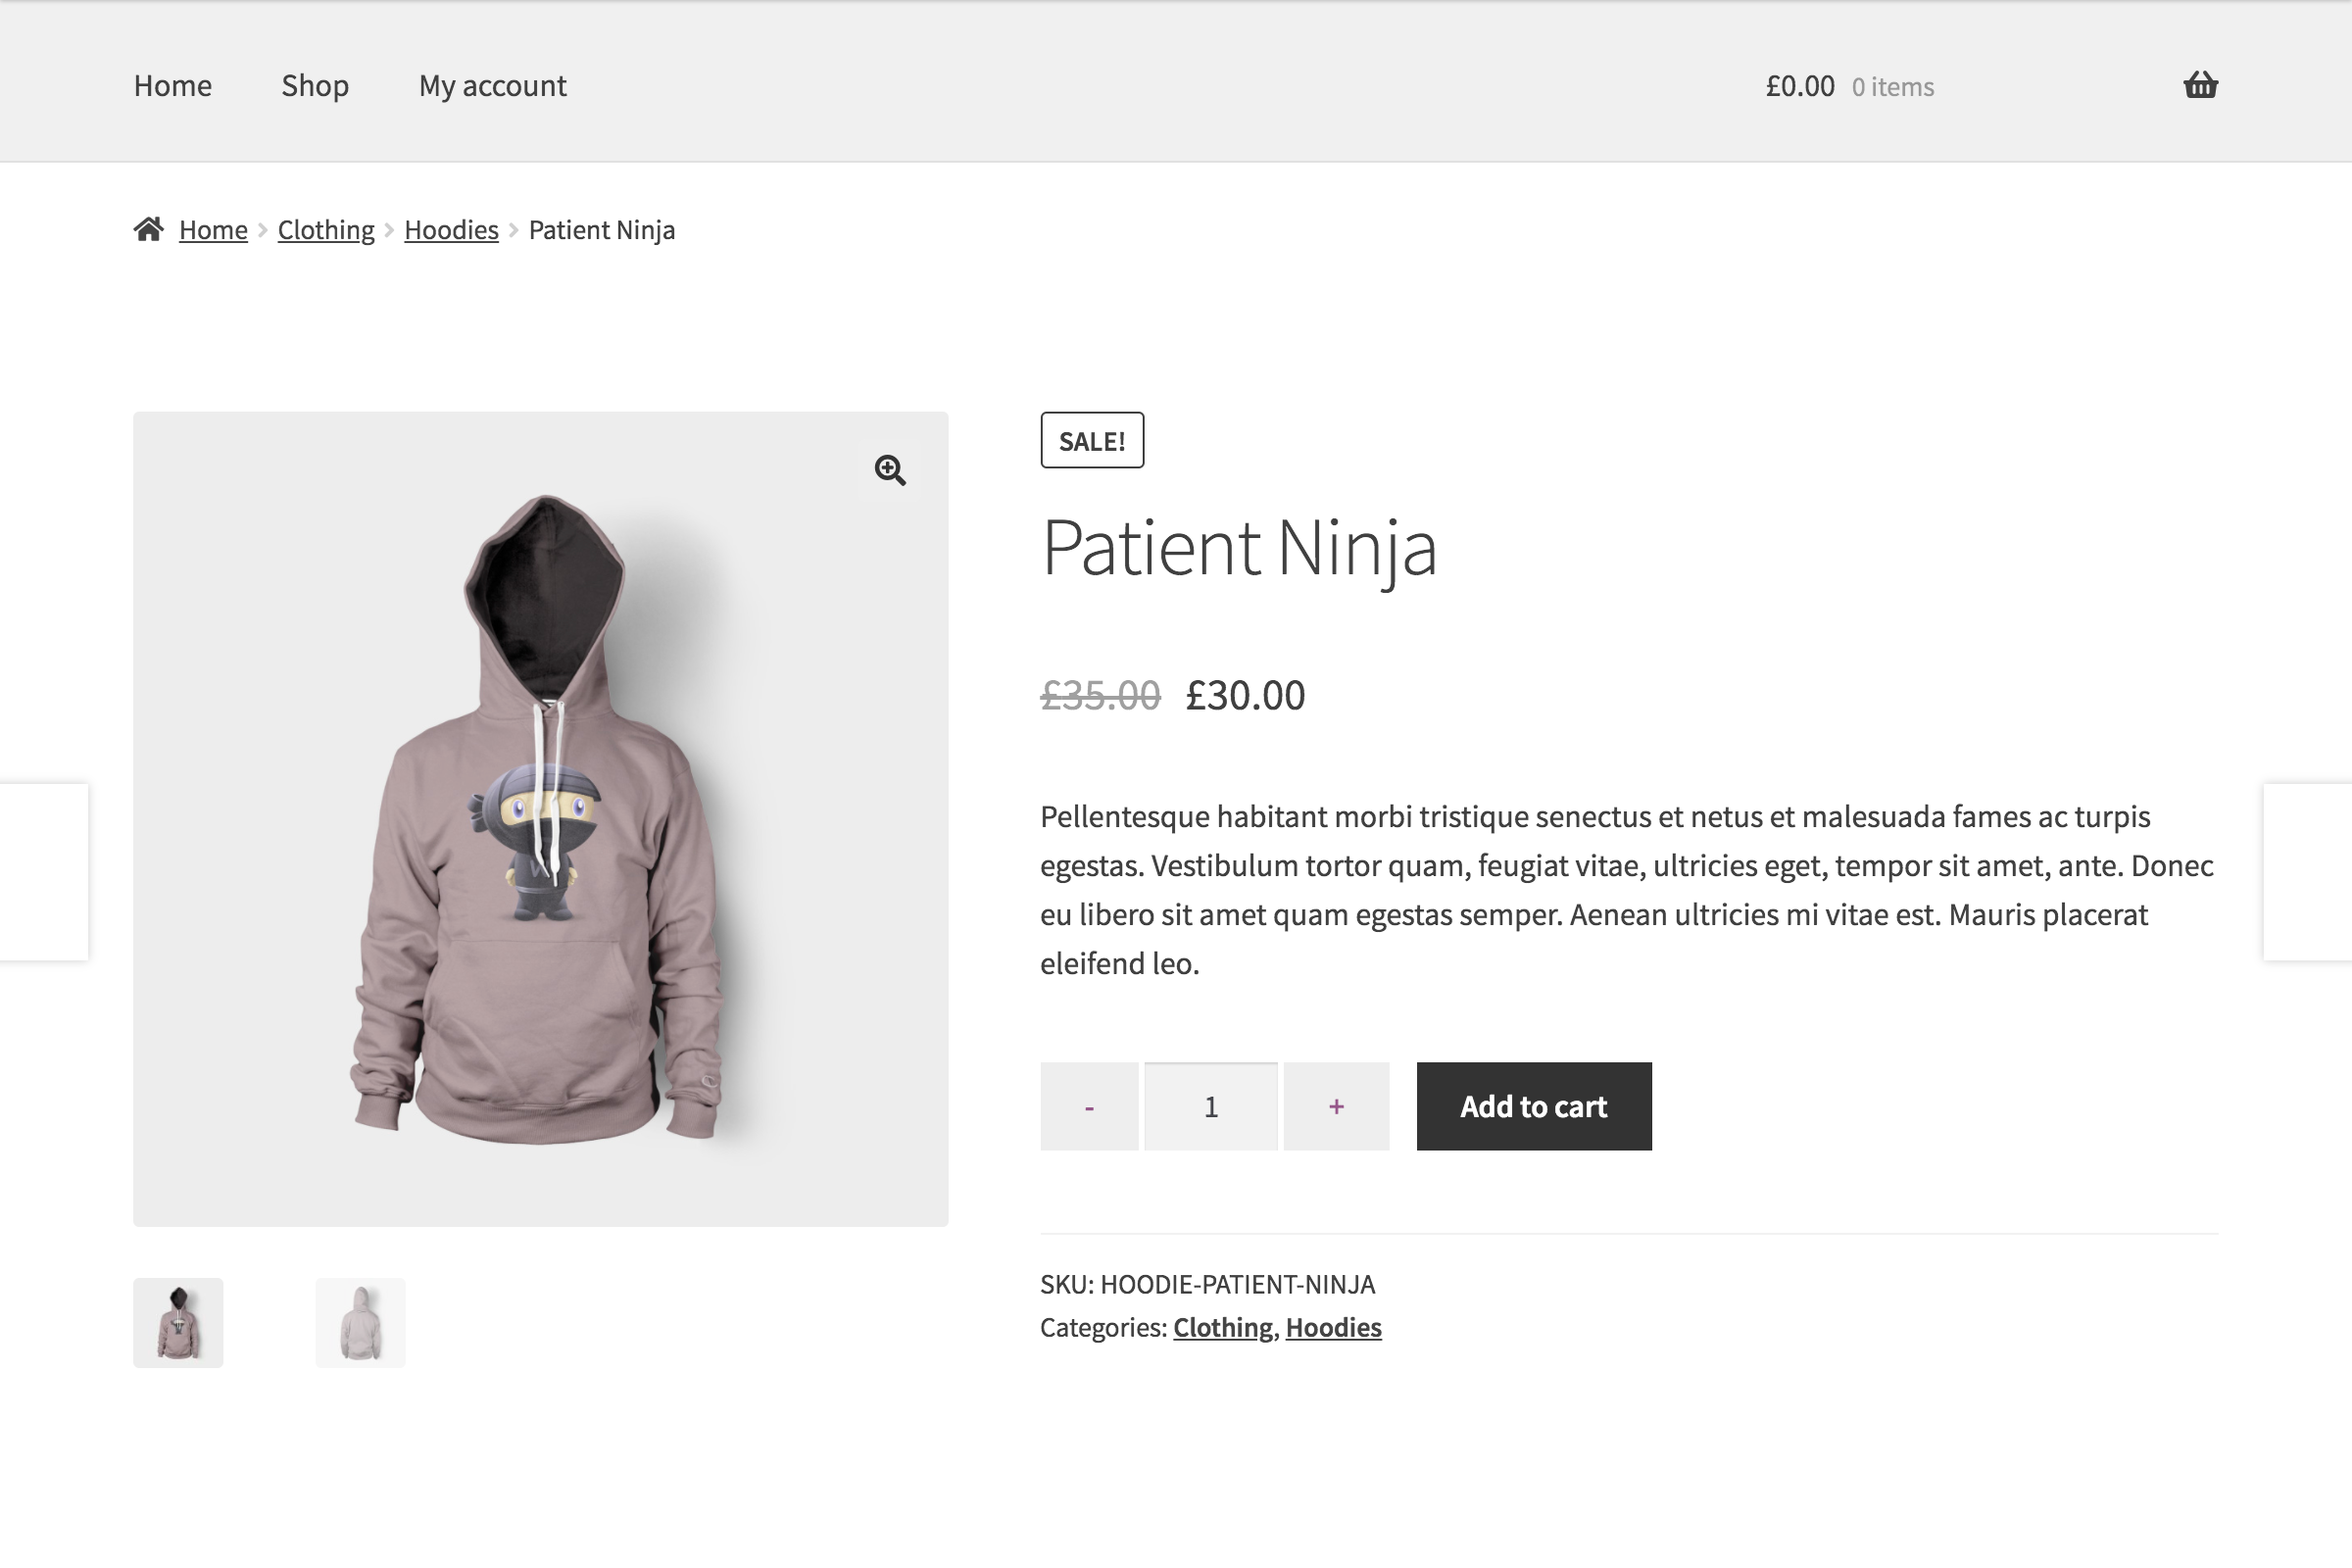
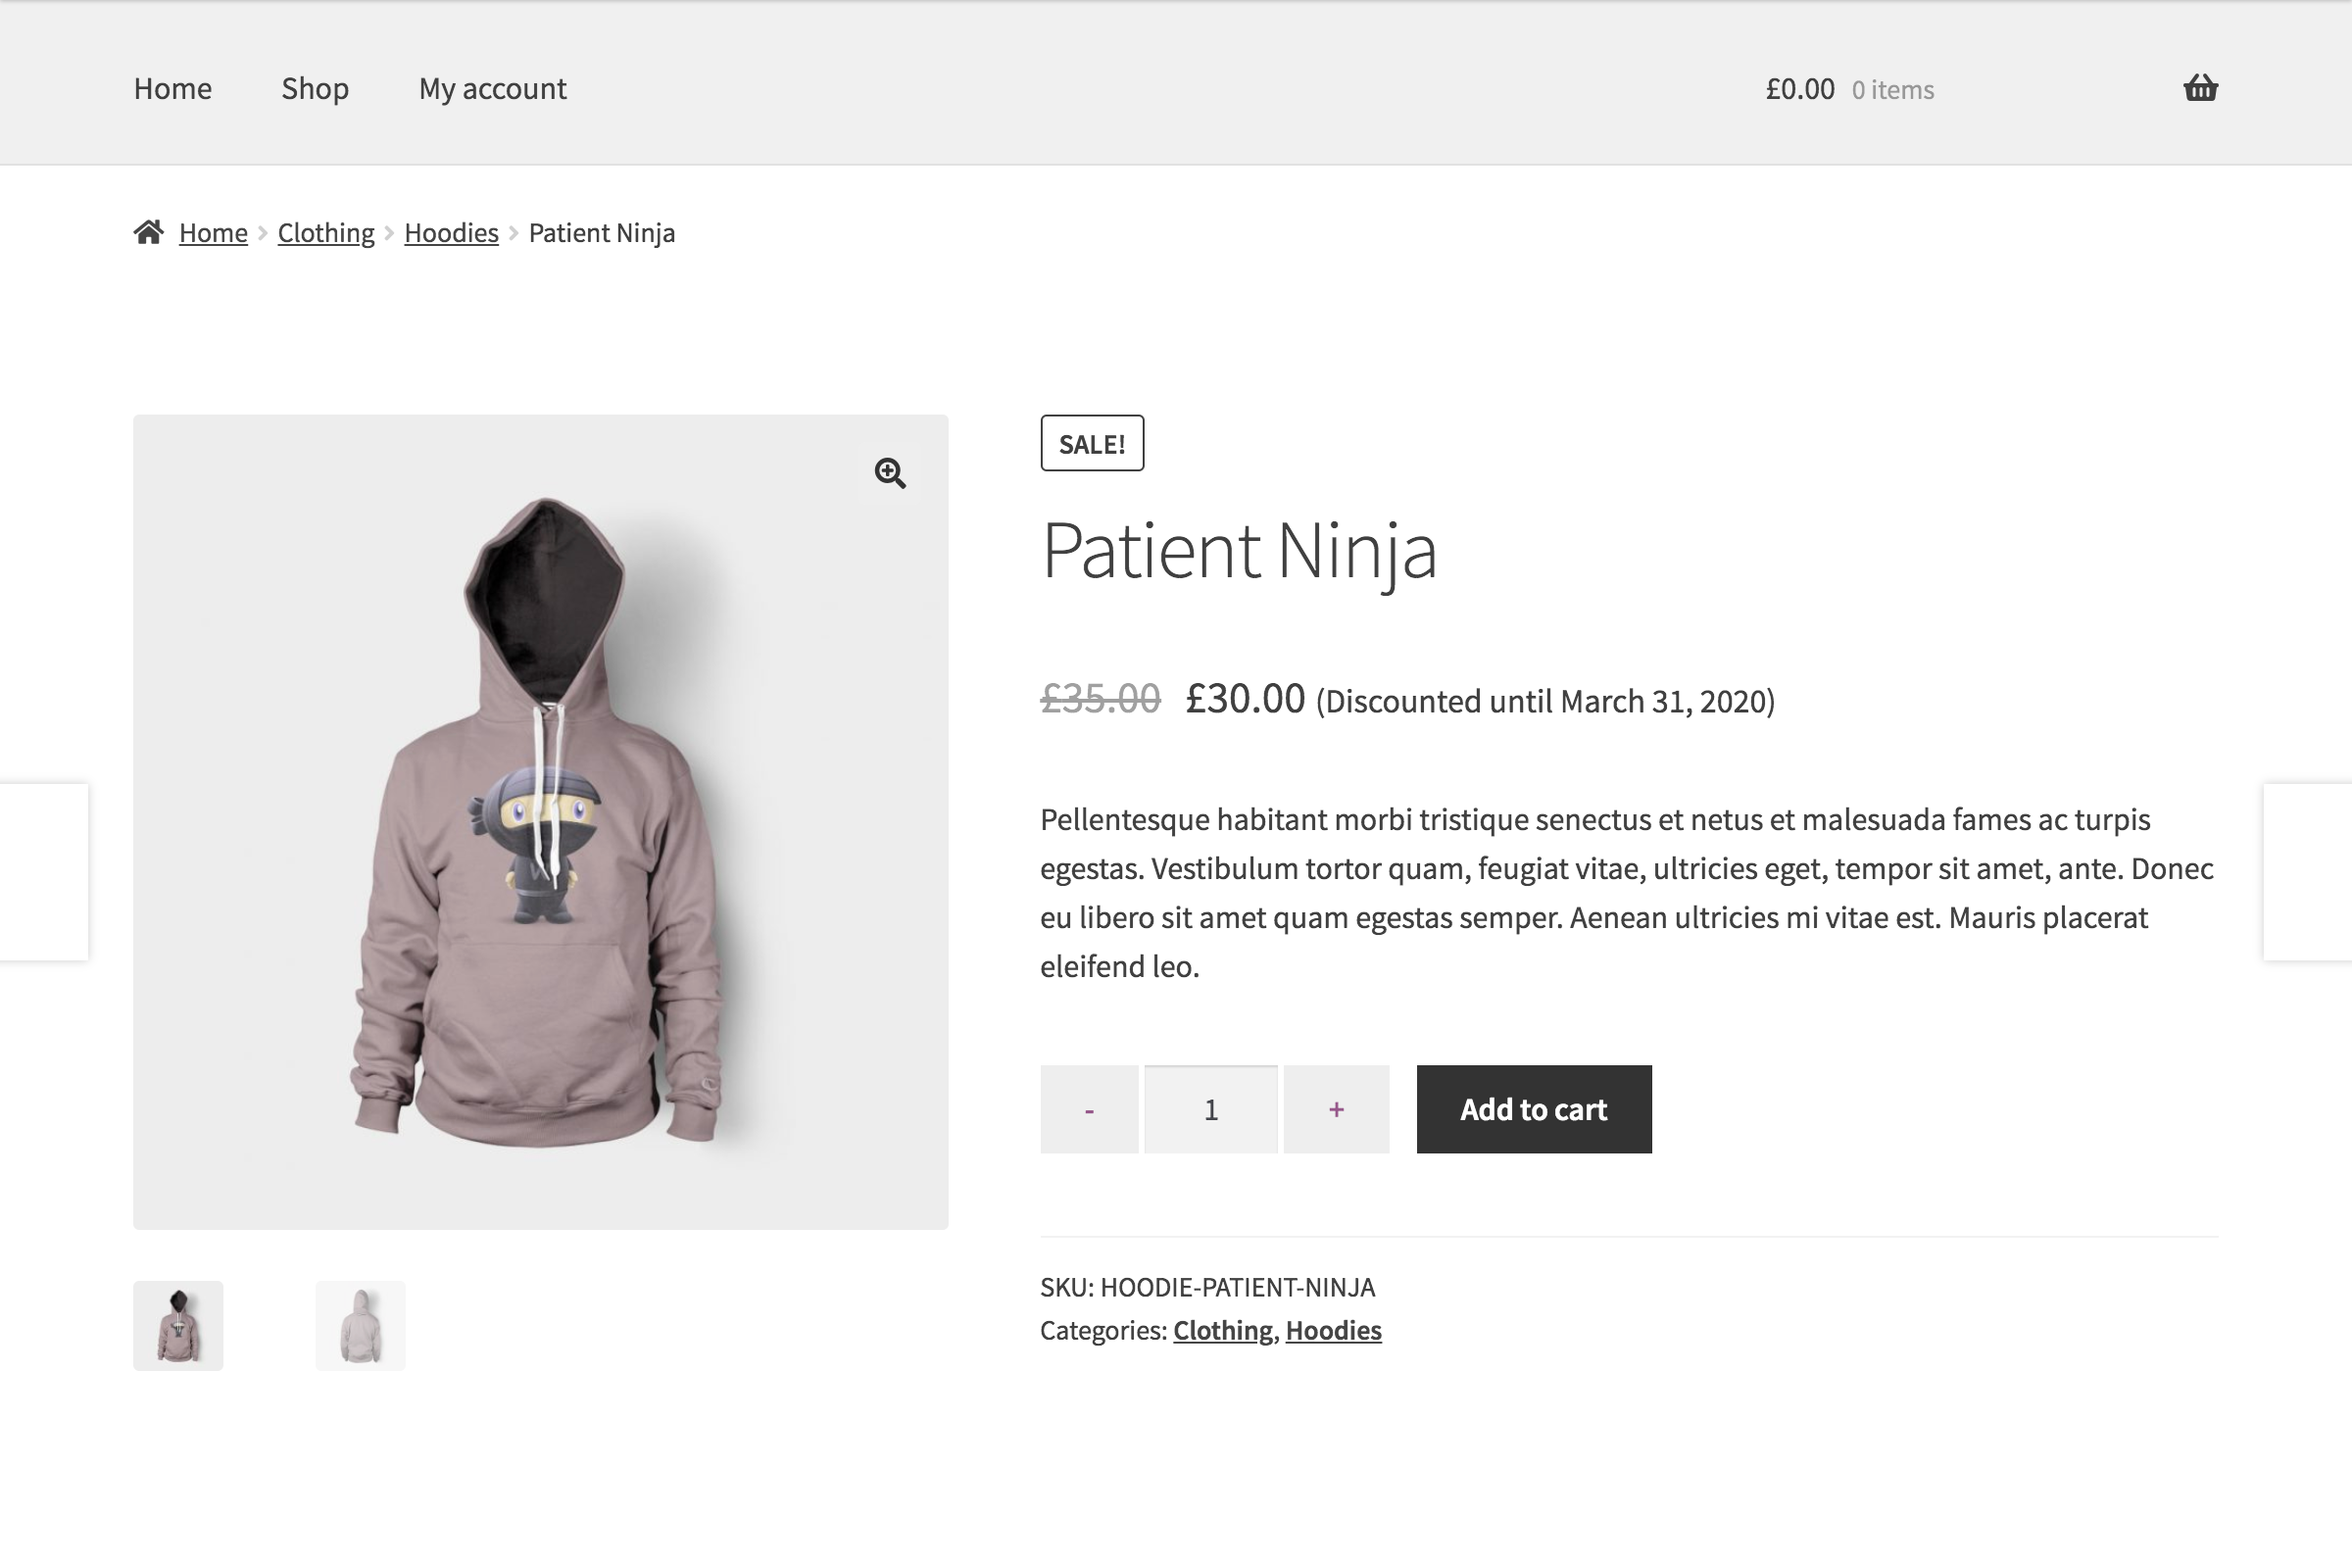
#10: Update screenshot

diff --git a/README.md b/README.md
@@ -52,7 +52,9 @@ Contributions are always welcome. Simply [create a new issue](https://github.com
 ## Change log
 
 ### 1.2
+* [Add GPL3 license](https://github.com/nielslange/smntcs-show-sale-price-date-for-woocommerce/issues/11)
 * [Format filter on README.txt in pseudo-markdown](https://github.com/nielslange/smntcs-show-sale-price-date-for-woocommerce/issues/9)
+* [Update screenshot](https://github.com/nielslange/smntcs-show-sale-price-date-for-woocommerce/issues/10)
 
 ### 1.1
 * [Add build tools](https://github.com/nielslange/smntcs-show-sale-price-date-for-woocommerce/issues/1)
